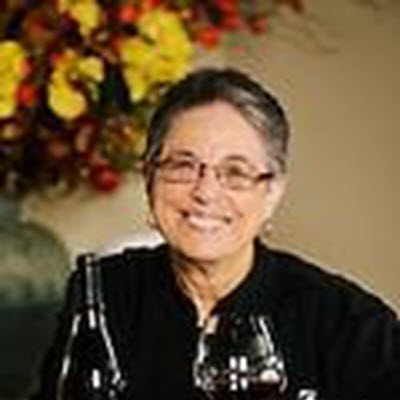
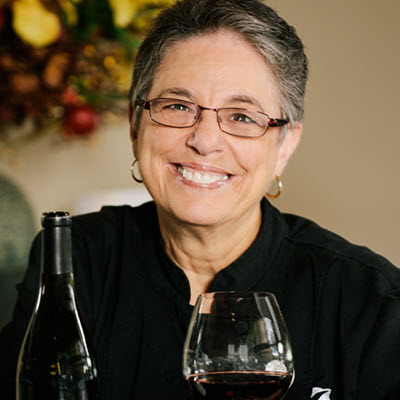
Updated pourer bios and pics.  Adjusted pourer bios to show on touch.

diff --git a/index.html b/index.html
@@ -12,10 +12,11 @@
 </head>
 
 <body>
+    <!-- ToDo -->
+    <!-- Set up google analytics -->
     <nav class="navbar fixed-top navbar-expand navbar-dark bg-purple shadow">
         <a class="navbar-brand nav-link" href="#home">
             <img src="./img/mco-logo-white-sm.png" height="50" />
-            <!-- Margaux & Co. -->
         </a>
         <button class="navbar-toggler" type="button" data-toggle="collapse" data-target="#navbarNav" aria-controls="navbarNav"
             aria-expanded="false" aria-label="Toggle navigation">
@@ -31,7 +32,7 @@
                 </li>
             </ul>
             <span class="navbar-text">
-                    <a href="mailto:margaux@mcopdx.com" target="_blank">margaux@mcopdx.com</a>
+                    <a href="mailto:info@mcopdx.com" target="_blank">info@mcopdx.com</a>
                 </li>
             </span>
         </div>

diff --git a/js/pourers.js b/js/pourers.js
@@ -25,7 +25,11 @@ $.getJSON('pourers.json')
             }
             card += '</div>';
             card += '<div class="card-body  bg-purple">';
-            card += '<h5 class="card-title">' + pourer.firstName + ' ' + pourer.lastName + '</h5>';
+            card += '<h5 class="card-title">' + pourer.firstName + ' ' + pourer.lastName;
+            if (pourer.bio) {
+                card += '<span class="mco-info">[i]</span>';
+            }
+            card += '</h5>';
             card += '</div>';
             card += '</div>';
 

diff --git a/css/custom.css b/css/custom.css
@@ -81,7 +81,8 @@ body {
     margin-top: 3rem;
 }
 
-.mco-card:hover .mco-bio {
+.mco-card:hover .mco-bio,
+.mco-card:active .mco-bio {
     height: 400px;
     padding: 10px;
     overflow-y: scroll;
